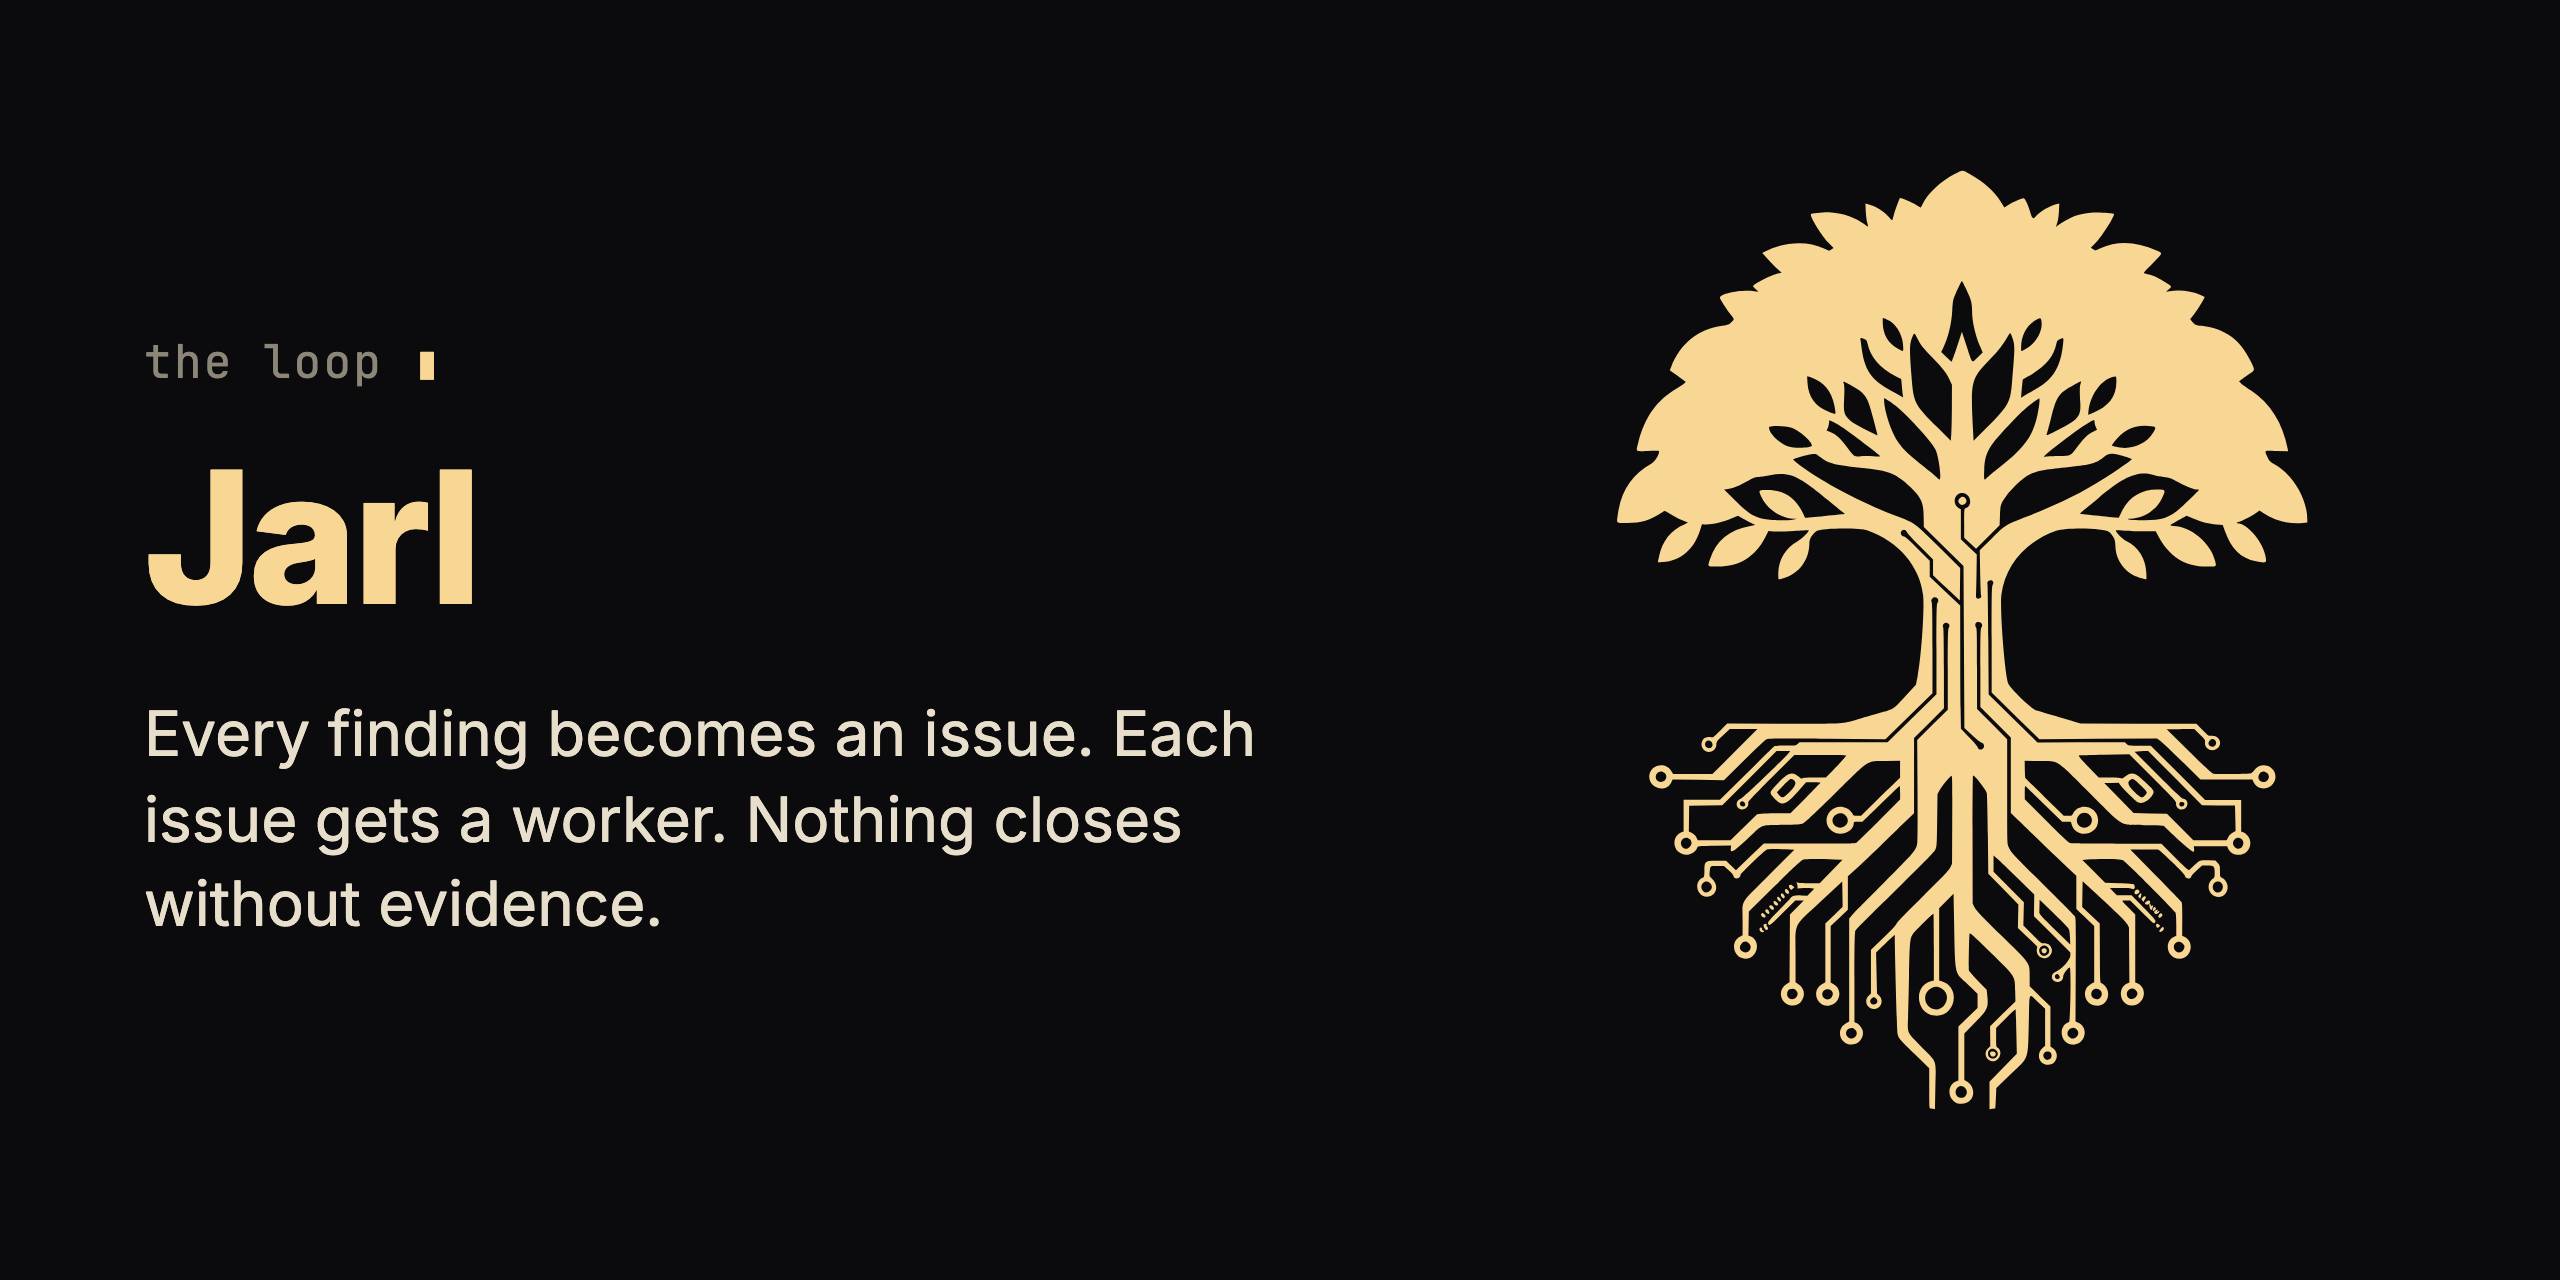
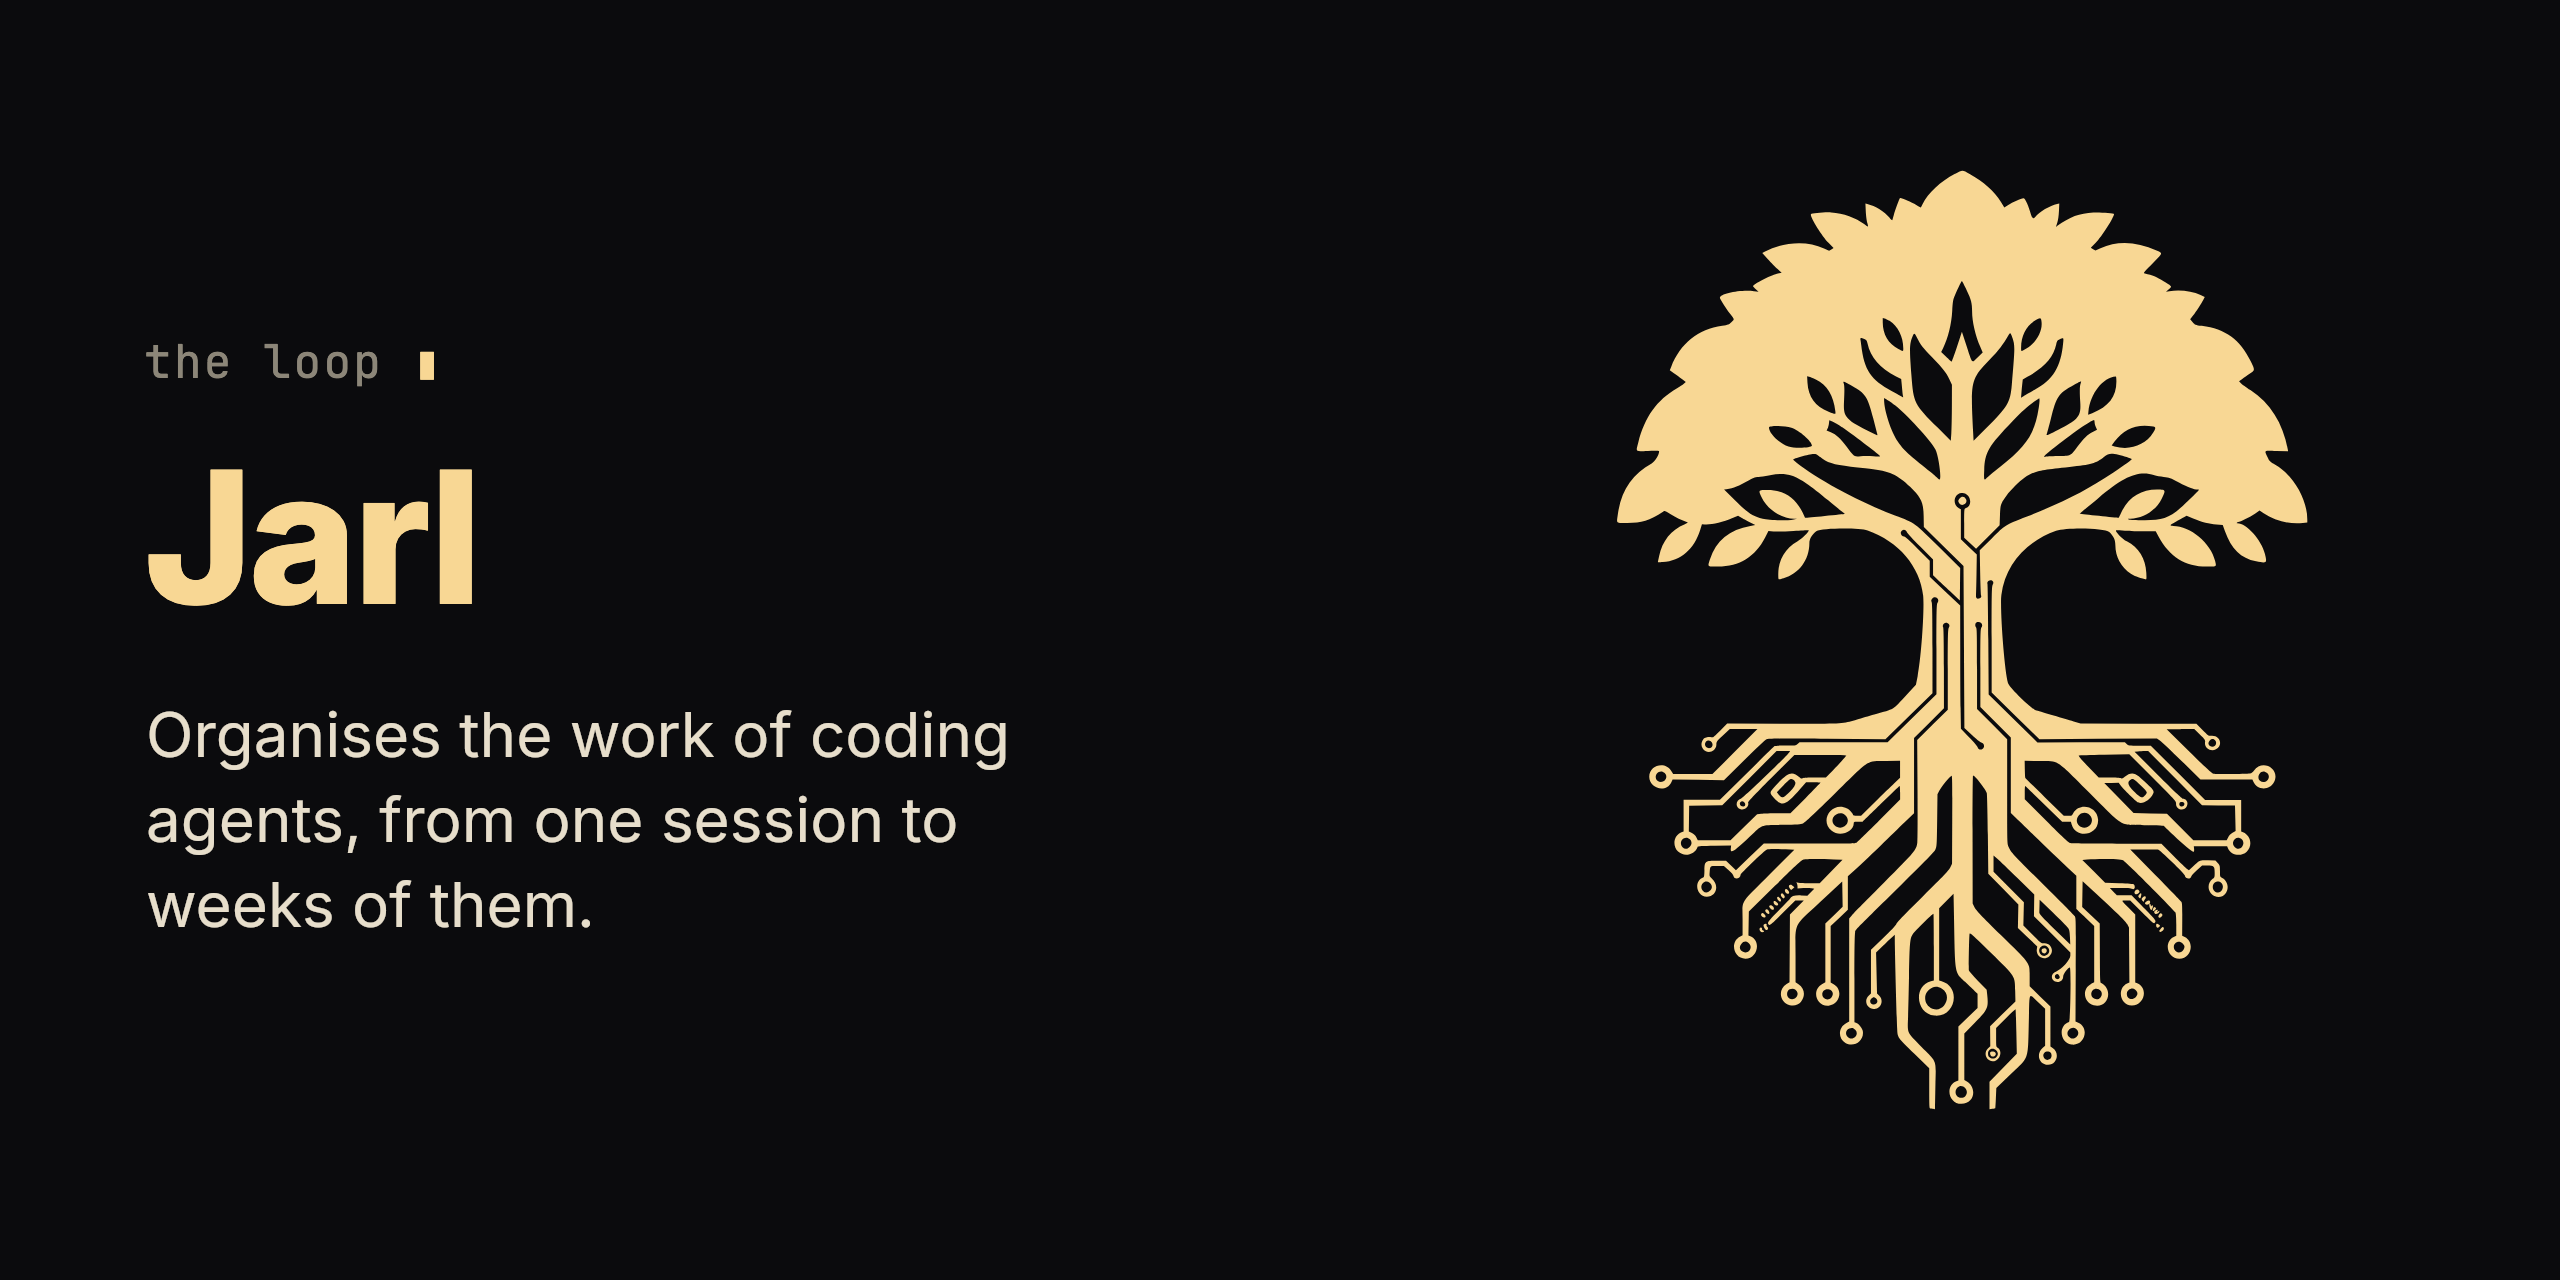
The README and the social card lead with what Jarl is (issue 236)

Changed region(s): [[0.0625, 0.625, 0.4688, 0.75], [0.0625, 0.5625, 0.5, 0.5938]]

diff --git a/README.md b/README.md
@@ -1,8 +1,8 @@
-<p align="center"><img src="assets/social-card.png" alt="Jarl: on a feature branch, the agent files everything it sees as an issue, gives each piece of work one worker in its own worktree, and closes nothing without proof of its lines and an approval, from a fresh reviewer when the issue carries code, unless the loop's done gate asks no approve and a merge is enough, or the owner waives the review." width="720"></p>
+<p align="center"><img src="assets/social-card.png" alt="Jarl, the loop: organises the work of coding agents, from one session to weeks of them." width="720"></p>
 
 # Jarl
 
-**Your feature branch has more issues than one agent can hold in its head, so it fixes one, forgets two, and loses the third in the diff.** Jarl makes the agent direct a crew instead of working alone.
+**Organises the work of coding agents, from one session to weeks of them.** Your feature branch has more issues than one agent can hold in its head, so it fixes one, forgets two, and loses the third in the diff. Jarl makes the agent direct a crew instead of working alone.
 
 On a feature branch, the agent files everything it sees as an issue, gives each piece of work one worker in its own worktree, and closes nothing without proof of its lines and an approval, from a fresh reviewer when the issue carries code, unless the loop's done gate asks no approve and a merge is enough, or the owner waives the review.
 
